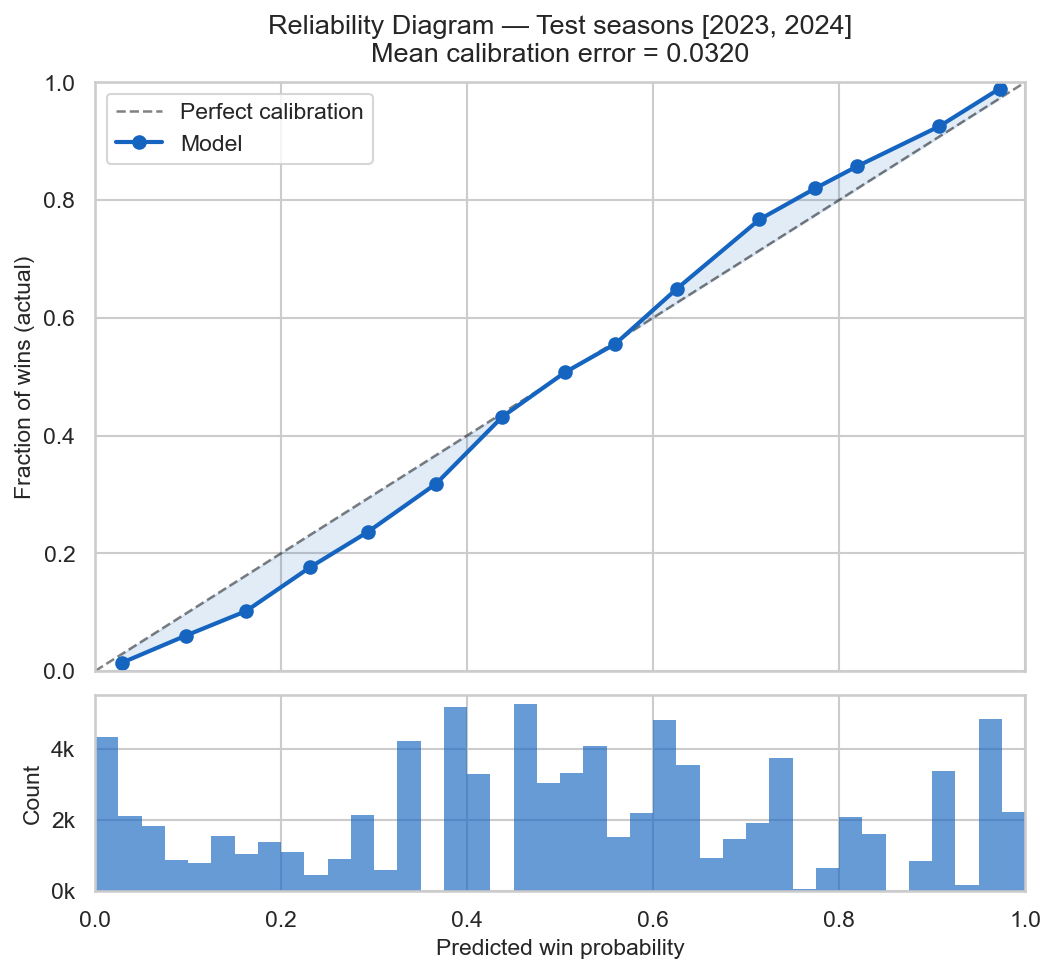
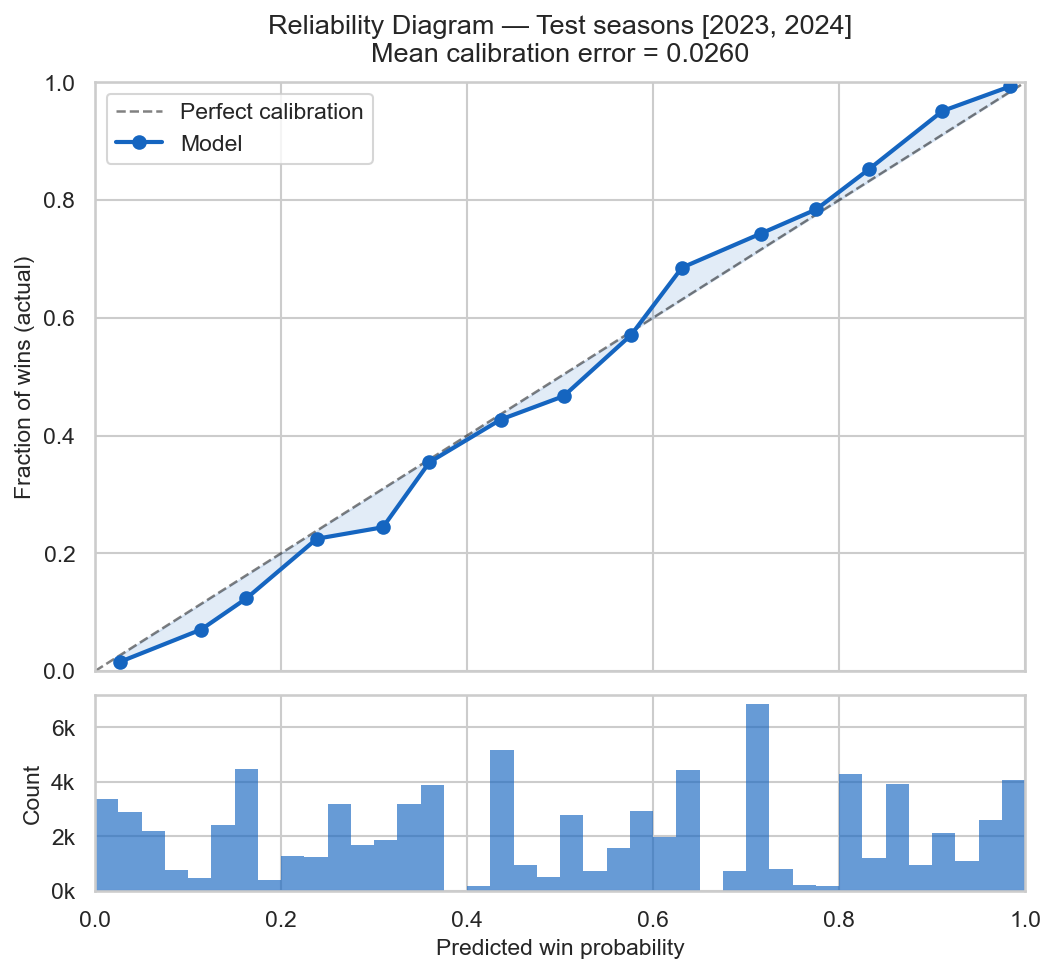
Updated visualization code

diff --git a/src/visualization/benchmark_eval.py b/src/visualization/benchmark_eval.py
@@ -14,8 +14,9 @@ Plots saved to ``reports/figures/``:
 
   1. benchmark_reliability.png   — calibration curves: Ours vs nflfastR (all plays)
   2. ot_reliability.png          — calibration curves: Ours vs nflfastR (OT only)
-  3. metrics_comparison.png      — Brier / log-loss / calib-error bar chart
+  3. metrics_comparison.png      — Brier / log-loss / calib-error / accuracy bar chart
   4. ot_phase_analysis.png       — residuals + calibration by OT possession phase
+  5. accuracy_by_confidence.png  — accuracy within each 10%-wide WP confidence band
 """
 
 from __future__ import annotations
@@ -76,7 +77,7 @@ def load_eval_dataframe(
     if parquet_path is None:
         parquet_path = _DATA_DIR / "pbp_2016_2024.parquet"
 
-    load_cols = [
+    required_cols = [
         "game_id", "posteam", "defteam", "home_team", "away_team",
         "season", "week", "qtr", "game_seconds_remaining",
         "score_differential", "down", "ydstogo", "yardline_100",
@@ -84,7 +85,13 @@ def load_eval_dataframe(
         "drive", "result",
         "wp",   # nflfastR pre-play WP for posteam
     ]
-    df = pd.read_parquet(parquet_path, columns=load_cols)
+    optional_cols = ["spread_line", "home_opening_kickoff"]
+
+    df_full = pd.read_parquet(parquet_path, columns=None)
+    available = set(df_full.columns)
+    extra = [c for c in optional_cols if c in available]
+    df = df_full[required_cols + extra].copy()
+    del df_full
 
     # ── Same filters as build_training_data() ─────────────────────────────────
     required_notna = [
@@ -112,6 +119,19 @@ def load_eval_dataframe(
     df["defense_timeouts"]   = df["defteam_timeouts_remaining"].fillna(3).clip(0, 3).astype(int)
     df["score_differential"] = df["score_differential"].astype(float)
     df["is_overtime"]        = (df["quarter"] >= 5).astype(int)
+
+    # Optional enrichment — match build_training_data() exactly
+    df["home"] = (df["posteam"] == df["home_team"]).astype(float)
+    if "spread_line" in df.columns:
+        df["posteam_spread"] = np.where(
+            df["posteam"] == df["home_team"],
+            df["spread_line"].fillna(0.0),
+            -df["spread_line"].fillna(0.0),
+        )
+    else:
+        df["posteam_spread"] = 0.0
+    df["guaranteed_possession"] = 0.0
+
     df["offense_team_strength_rating"] = 0.0
     df["defense_team_strength_rating"] = 0.0
 
@@ -125,7 +145,19 @@ def load_eval_dataframe(
     df = df.rename(columns={"wp": "fastr_wp"})
 
     # ── Run our model on the same rows ─────────────────────────────────────────
-    df_feat = model._engineer_features(df)
+    # Apply OT transformation to OT rows so predict_proba() logic is matched.
+    ot_mask = df["is_overtime"].astype(bool)
+    df_scored = df.copy()
+    if ot_mask.any():
+        transformed = df[ot_mask].apply(
+            lambda row: pd.Series(model._ot_transformer.transform(row.to_dict())),
+            axis=1,
+        )
+        for col in ["is_overtime", "overtime_possession_number", "quarter", "seconds_remaining"]:
+            if col in transformed.columns:
+                df_scored.loc[ot_mask, col] = transformed[col].values
+
+    df_feat = model._engineer_features(df_scored)
     X = df_feat[model._feature_cols].fillna(0.0).values
     raw = model._base_model.predict_proba(X)[:, 1]
     df["our_wp"] = model._apply_calibrator(raw)
@@ -145,16 +177,19 @@ def compute_metrics(
     label: str,
     n_bins: int = 10,
 ) -> dict:
-    """Return log_loss, brier, mean_calib_err and the calibration curve arrays."""
-    ll   = log_loss(y_true, y_pred)
-    bs   = brier_score_loss(y_true, y_pred)
+    """Return log_loss, brier, mean_calib_err, accuracy and the calibration curve arrays."""
+    ll       = log_loss(y_true, y_pred)
+    bs       = brier_score_loss(y_true, y_pred)
     frac_pos, mean_pred = calibration_curve(y_true, y_pred, n_bins=n_bins, strategy="quantile")
-    mce  = float(np.mean(np.abs(frac_pos - mean_pred)))
-    logger.info("[%s]  n=%d  log_loss=%.4f  brier=%.4f  mean_calib_err=%.4f",
-                label, len(y_true), ll, bs, mce)
+    mce      = float(np.mean(np.abs(frac_pos - mean_pred)))
+    accuracy = float(((y_pred >= 0.5).astype(int) == y_true).mean())
+    logger.info(
+        "[%s]  n=%d  log_loss=%.4f  brier=%.4f  mean_calib_err=%.4f  accuracy=%.4f",
+        label, len(y_true), ll, bs, mce, accuracy,
+    )
     return {
         "label": label, "n": len(y_true),
-        "log_loss": ll, "brier": bs, "mean_calib_err": mce,
+        "log_loss": ll, "brier": bs, "mean_calib_err": mce, "accuracy": accuracy,
         "frac_pos": frac_pos, "mean_pred": mean_pred,
     }
 
@@ -271,12 +306,12 @@ def plot_metrics_comparison(
     df: pd.DataFrame,
     save_path: Path | None = None,
 ) -> plt.Figure:
-    """Side-by-side bar chart of Brier score, log-loss, and mean calibration
-    error for Our model vs nflfastR across three data slices:
+    """Side-by-side bar chart of Brier score, log-loss, mean calibration error,
+    and accuracy for Our model vs nflfastR across five data slices:
       • All test plays
       • Overtime plays only
       • OT 1st possession  /  OT 2nd possession  /  OT sudden death
-    Lower is better for all three metrics.
+    Lower is better for the first three metrics; higher is better for accuracy.
     """
     def _slice_metrics(mask, tag):
         sub = df[mask]
@@ -291,6 +326,7 @@ def plot_metrics_comparison(
                 "Brier score": m["brier"],
                 "Log-loss": m["log_loss"],
                 "Calib error": m["mean_calib_err"],
+                "Accuracy": m["accuracy"],
             })
         return rows
 
@@ -305,19 +341,20 @@ def plot_metrics_comparison(
     rows += _slice_metrics(ot & (pn >= 2),  "OT — sudden death")
 
     results = pd.DataFrame(rows)
-    metrics  = ["Brier score", "Log-loss", "Calib error"]
+    # (metric_name, lower_is_better)
+    metrics  = [("Brier score", True), ("Log-loss", True), ("Calib error", True), ("Accuracy", False)]
     slices   = results["slice"].unique()
 
-    fig, axes = plt.subplots(1, 3, figsize=(16, 5))
-    fig.suptitle("Our Model vs nflfastR — Lower is Better", fontsize=13)
+    fig, axes = plt.subplots(1, 4, figsize=(21, 5))
+    fig.suptitle("Our Model vs nflfastR — Metrics Comparison", fontsize=13)
 
     colours = {"Our model": "#1565C0", "nflfastR": "#E65100"}
     x       = np.arange(len(slices))
     width   = 0.35
 
-    for ax, metric in zip(axes, metrics):
+    for ax, (metric, lower_is_better) in zip(axes, metrics):
         for i, (model_name, colour) in enumerate(colours.items()):
-            vals  = [
+            vals = [
                 results.loc[(results["slice"] == s) & (results["model"] == model_name), metric].values[0]
                 if len(results.loc[(results["slice"] == s) & (results["model"] == model_name)]) > 0
                 else np.nan
@@ -330,7 +367,8 @@ def plot_metrics_comparison(
 
         ax.set_xticks(x)
         ax.set_xticklabels(slices, rotation=20, ha="right", fontsize=9)
-        ax.set_title(metric, fontsize=11)
+        direction = "↓ lower" if lower_is_better else "↑ higher"
+        ax.set_title(f"{metric}  ({direction} is better)", fontsize=10)
         ax.set_ylabel(metric)
         ax.spines[["top", "right"]].set_visible(False)
         if ax is axes[0]:
@@ -344,7 +382,93 @@ def plot_metrics_comparison(
     return fig
 
 
-# ── Plot 4: OT phase deep-dive ────────────────────────────────────────────────
+# ── Plot 4 (new): Accuracy by confidence band ─────────────────────────────────
+
+def plot_accuracy_by_confidence(
+    df: pd.DataFrame,
+    save_path: Path | None = None,
+) -> plt.Figure:
+    """Binary prediction accuracy within each 10%-wide WP confidence band.
+
+    For each band [k·10%, (k+1)·10%), a prediction is "correct" when the model
+    predicts win (WP ≥ 0.5) and the team won, or predicts loss (WP < 0.5) and
+    the team lost.
+
+    The reference line shows expected accuracy for a perfectly calibrated model:
+      • bands below 50% → predict loss → expected accuracy = 1 − band_midpoint
+      • bands at/above 50% → predict win → expected accuracy = band_midpoint
+    This forms a V-shape centred at 50 % (worst case ≈ 50 % accuracy in the
+    40–60 % bands, best case ≈ 95 % in the 0–10 % and 90–100 % bands).
+    """
+    bands = [(i / 10, (i + 1) / 10) for i in range(10)]
+    band_labels = [f"{int(lo * 100)}–{int(hi * 100)}%" for lo, hi in bands]
+    midpoints   = [(lo + hi) / 2 for lo, hi in bands]
+    ref_acc     = [max(m, 1 - m) for m in midpoints]   # V-shape reference
+
+    def _band_accuracy(wp_col: str) -> tuple[list[float], list[int]]:
+        accs, ns = [], []
+        for i, (lo, hi) in enumerate(bands):
+            if i == len(bands) - 1:
+                mask = df[wp_col] >= lo
+            else:
+                mask = (df[wp_col] >= lo) & (df[wp_col] < hi)
+            sub = df[mask]
+            if len(sub) == 0:
+                accs.append(np.nan)
+                ns.append(0)
+            else:
+                correct = ((sub[wp_col] >= 0.5).astype(int) == sub["offense_team_won_game"]).mean()
+                accs.append(float(correct))
+                ns.append(len(sub))
+        return accs, ns
+
+    ours_acc, ours_n = _band_accuracy("our_wp")
+    fast_acc, fast_n = _band_accuracy("fastr_wp")
+
+    x      = np.arange(len(bands))
+    width  = 0.35
+    colours = {"Our model": "#1565C0", "nflfastR": "#E65100"}
+
+    fig, ax = plt.subplots(figsize=(14, 5))
+
+    for i, (name, accs, ns) in enumerate([
+        ("Our model", ours_acc, ours_n),
+        ("nflfastR",  fast_acc, fast_n),
+    ]):
+        offset = (i - 0.5) * width
+        colour = colours[name]
+        bars = ax.bar(x + offset, accs, width, label=name,
+                      color=colour, alpha=0.80, edgecolor="none")
+        # Annotate with sample counts
+        for j, (bar, n) in enumerate(zip(bars, ns)):
+            if n > 0:
+                ax.text(bar.get_x() + bar.get_width() / 2, bar.get_height() + 0.005,
+                        f"n={n:,}", ha="center", va="bottom", fontsize=6.5, color=colour)
+
+    ax.plot(x, ref_acc, "k--", lw=1.5, label="Perfect calibration (reference)", alpha=0.6)
+
+    ax.set_xticks(x)
+    ax.set_xticklabels(band_labels, fontsize=9)
+    ax.set_xlabel("Predicted WP band")
+    ax.set_ylabel("Accuracy (fraction of plays correctly classified)")
+    ax.set_ylim(0.40, 1.05)
+    ax.set_title(
+        f"Accuracy by WP Confidence Band — Our Model vs nflfastR\n"
+        f"Test seasons {sorted(df['season'].unique())}  |  n={len(df):,}",
+        pad=10,
+    )
+    ax.legend(fontsize=10)
+    ax.spines[["top", "right"]].set_visible(False)
+
+    fig.tight_layout()
+
+    if save_path:
+        fig.savefig(save_path, bbox_inches="tight")
+        logger.info("Saved accuracy-by-confidence chart → %s", save_path)
+    return fig
+
+
+# ── Plot 5: OT phase deep-dive ────────────────────────────────────────────────
 
 def plot_ot_phase_analysis(
     df: pd.DataFrame,
@@ -496,7 +620,7 @@ def main() -> None:
         m = compute_metrics(df["offense_team_won_game"].values, df[col].values,
                             f"{model_name} | all", n_bins=10)
         print(f"  {model_name}  log_loss={m['log_loss']:.4f}  brier={m['brier']:.4f}  "
-              f"calib_err={m['mean_calib_err']:.4f}")
+              f"calib_err={m['mean_calib_err']:.4f}  accuracy={m['accuracy']:.4f}")
 
     print("\n-- OT-only metrics ----------------------------------------------")
     df_ot = df[df["is_overtime"] == 1]
@@ -504,19 +628,32 @@ def main() -> None:
         m = compute_metrics(df_ot["offense_team_won_game"].values, df_ot[col].values,
                             f"{model_name} | OT", n_bins=8)
         print(f"  {model_name}  log_loss={m['log_loss']:.4f}  brier={m['brier']:.4f}  "
-              f"calib_err={m['mean_calib_err']:.4f}")
+              f"calib_err={m['mean_calib_err']:.4f}  accuracy={m['accuracy']:.4f}")
+
+    print("\n-- Per-season metrics -------------------------------------------")
+    for season in sorted(df["season"].unique()):
+        df_s = df[df["season"] == season]
+        print(f"  Season {season}  (n={len(df_s):,})")
+        for model_name, col in [("Our model", "our_wp"), ("nflfastR ", "fastr_wp")]:
+            m = compute_metrics(df_s["offense_team_won_game"].values, df_s[col].values,
+                                f"{season} | {model_name}", n_bins=8)
+            print(f"    {model_name}  log_loss={m['log_loss']:.4f}  brier={m['brier']:.4f}  "
+                  f"calib_err={m['mean_calib_err']:.4f}  accuracy={m['accuracy']:.4f}")
 
     print()
-    print("[1/4]  Benchmark reliability diagram (all plays)...")
+    print("[1/5]  Benchmark reliability diagram (all plays)...")
     plot_benchmark_reliability(df, save_path=_FIG_DIR / "benchmark_reliability.png")
 
-    print("[2/4]  OT-only reliability diagram...")
+    print("[2/5]  OT-only reliability diagram...")
     plot_ot_reliability(df, save_path=_FIG_DIR / "ot_reliability.png")
 
-    print("[3/4]  Metrics comparison bar chart...")
+    print("[3/5]  Metrics comparison bar chart (4 metrics)...")
     plot_metrics_comparison(df, save_path=_FIG_DIR / "metrics_comparison.png")
 
-    print("[4/4]  OT phase deep-dive...")
+    print("[4/5]  Accuracy by confidence band...")
+    plot_accuracy_by_confidence(df, save_path=_FIG_DIR / "accuracy_by_confidence.png")
+
+    print("[5/5]  OT phase deep-dive...")
     plot_ot_phase_analysis(df, save_path=_FIG_DIR / "ot_phase_analysis.png")
 
     print(f"\nAll plots saved to {_FIG_DIR}")

diff --git a/src/visualization/win_probability_plots.py b/src/visualization/win_probability_plots.py
@@ -51,10 +51,30 @@ def _get_test_predictions(
     model: WinProbabilityModel,
     df: pd.DataFrame,
 ) -> tuple[np.ndarray, np.ndarray, pd.DataFrame]:
-    """Return (y_true, y_pred, df_test) for the model's held-out test seasons."""
+    """Return (y_true, y_pred, df_test) for the model's held-out test seasons.
+
+    OT plays are transformed via OTStateTransformer before prediction so the
+    residuals-by-state chart reflects the actual model output rather than
+    bypassing the transformer.
+    """
     test_mask = df["season"].isin(model.test_seasons)
     df_test = df[test_mask].copy()
-    df_feat = model._engineer_features(df_test)
+
+    # Apply OT transformation to OT rows before batch feature engineering
+    ot_mask = df_test.get("is_overtime", pd.Series(0, index=df_test.index)).astype(bool)
+    df_scored = df_test.copy()
+
+    if ot_mask.any():
+        ot_rows = df_test[ot_mask].copy()
+        transformed = ot_rows.apply(
+            lambda row: pd.Series(model._ot_transformer.transform(row.to_dict())),
+            axis=1,
+        )
+        for col in ["is_overtime", "overtime_possession_number", "quarter", "seconds_remaining"]:
+            if col in transformed.columns:
+                df_scored.loc[ot_mask, col] = transformed[col].values
+
+    df_feat = model._engineer_features(df_scored)
     X = df_feat[model._feature_cols].fillna(0.0).values
     raw = model._base_model.predict_proba(X)[:, 1]
     y_pred = model._apply_calibrator(raw)
